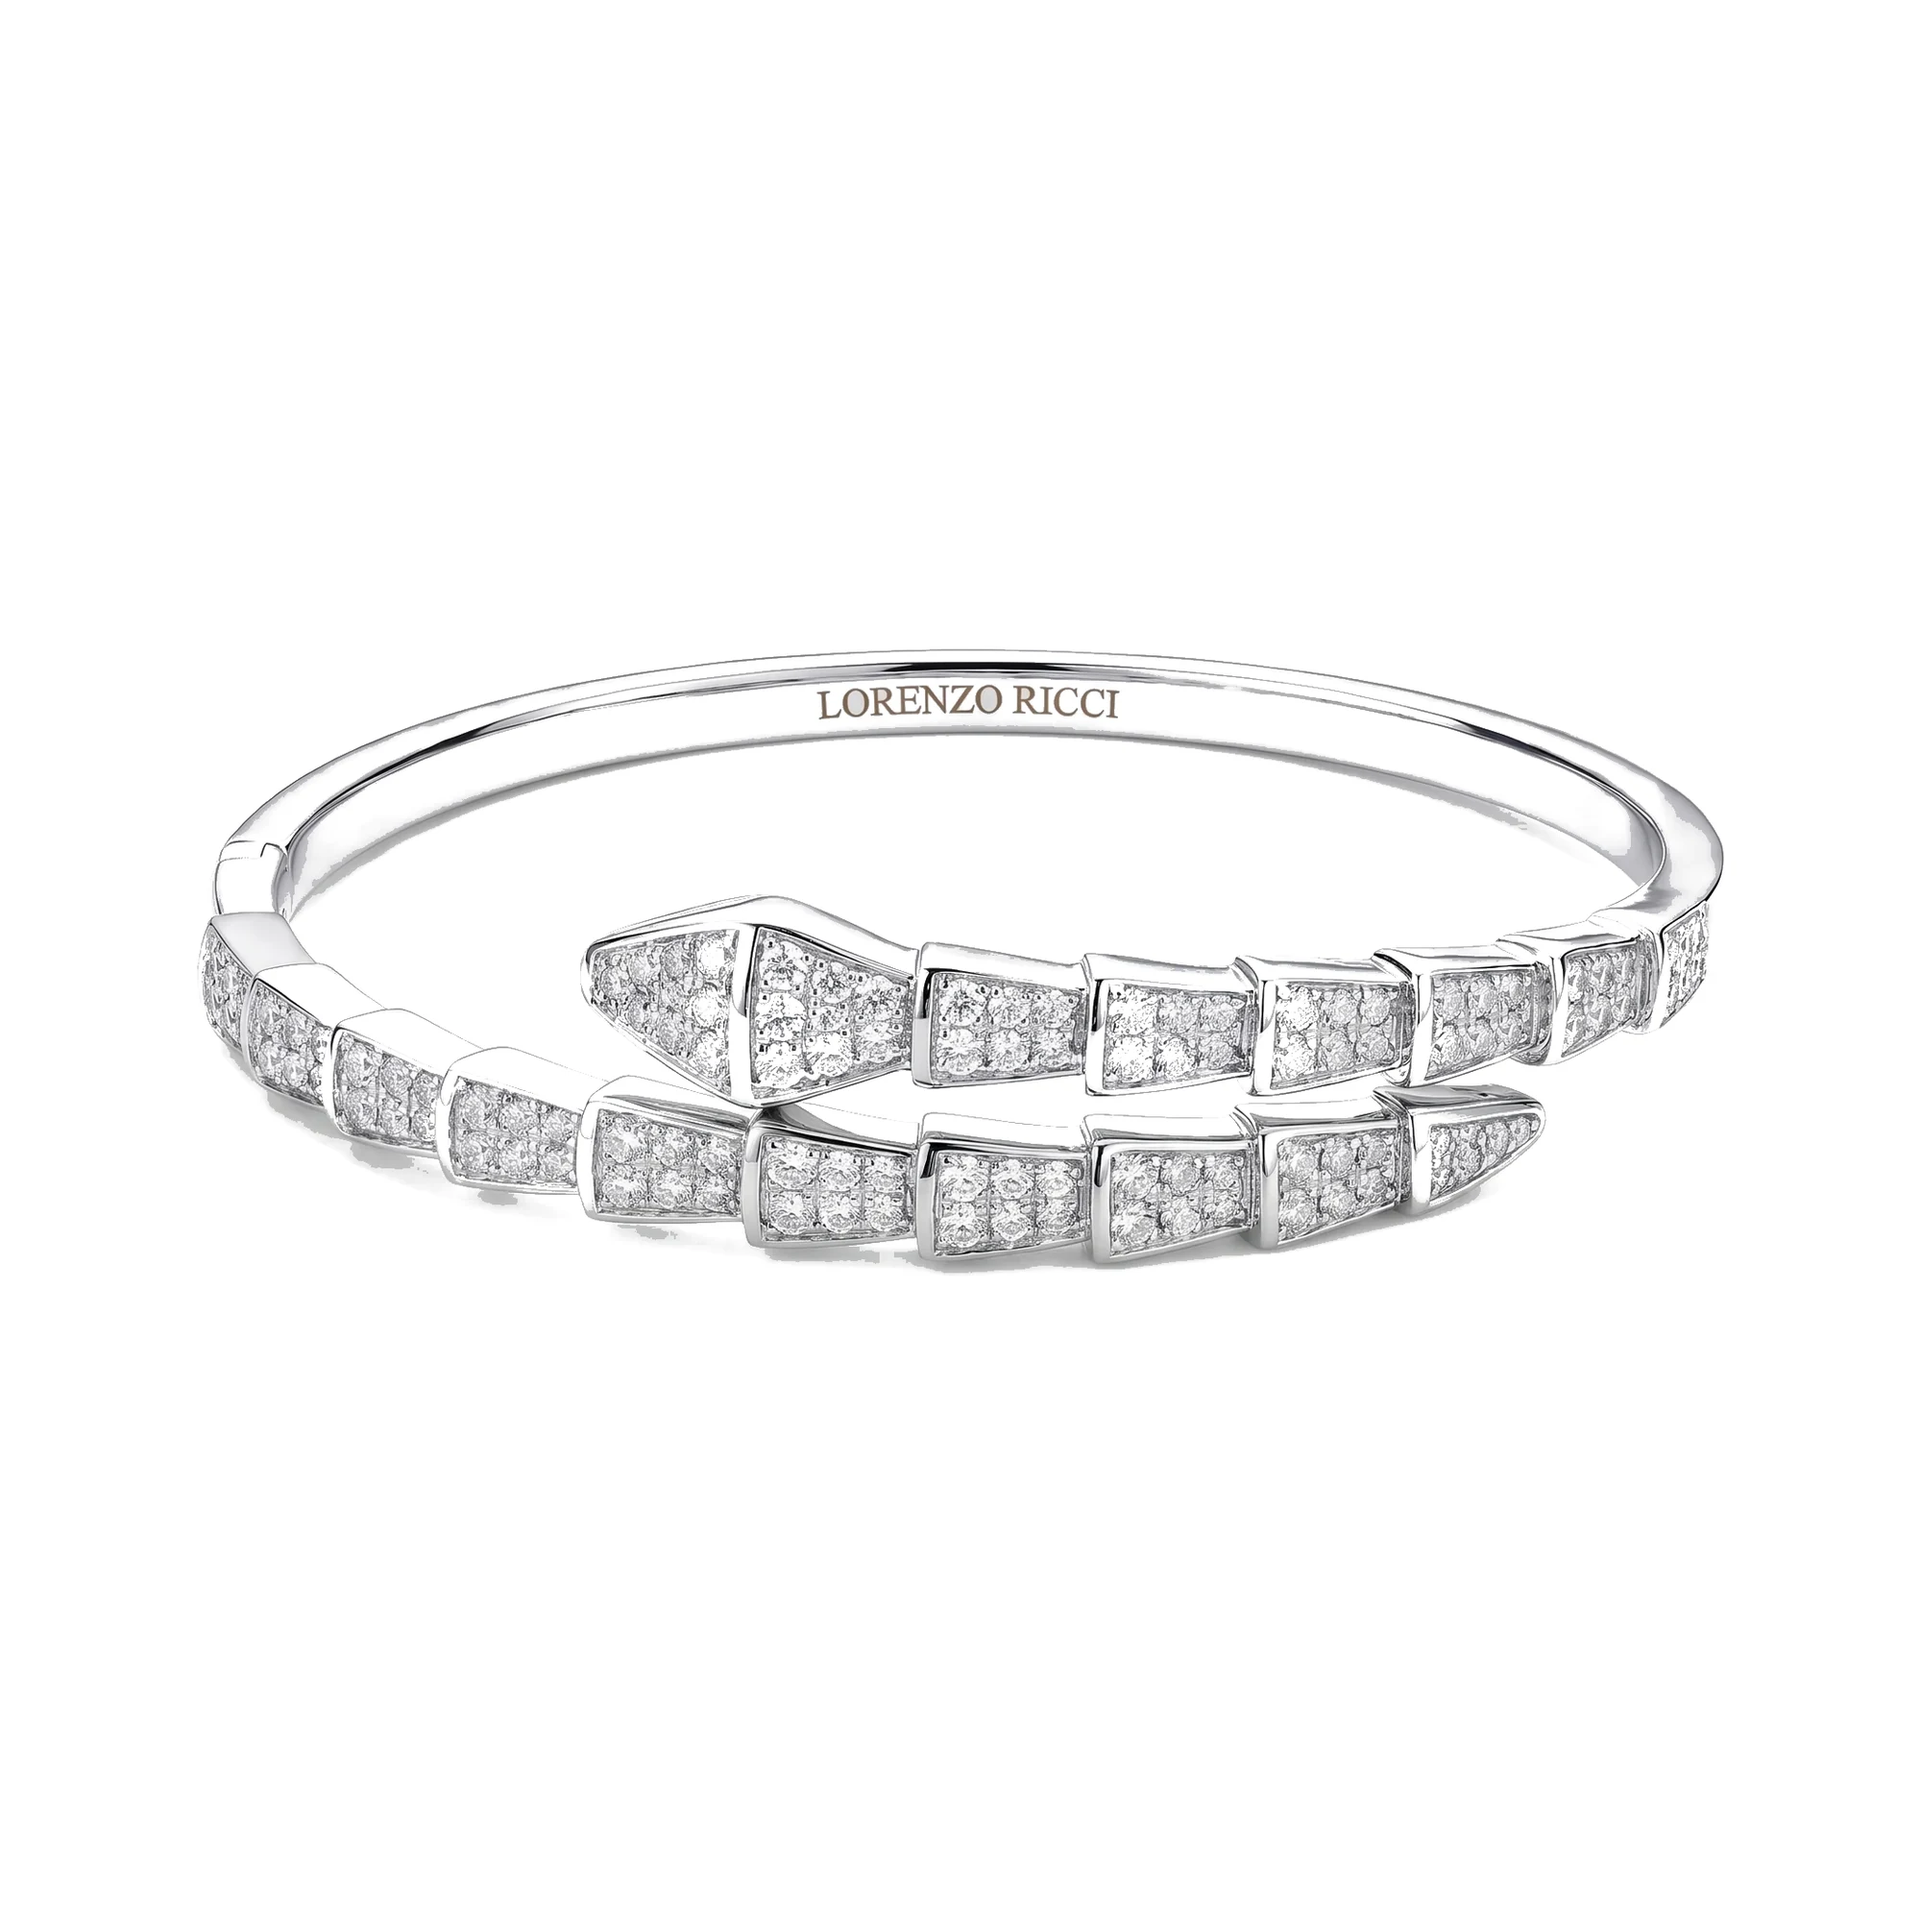
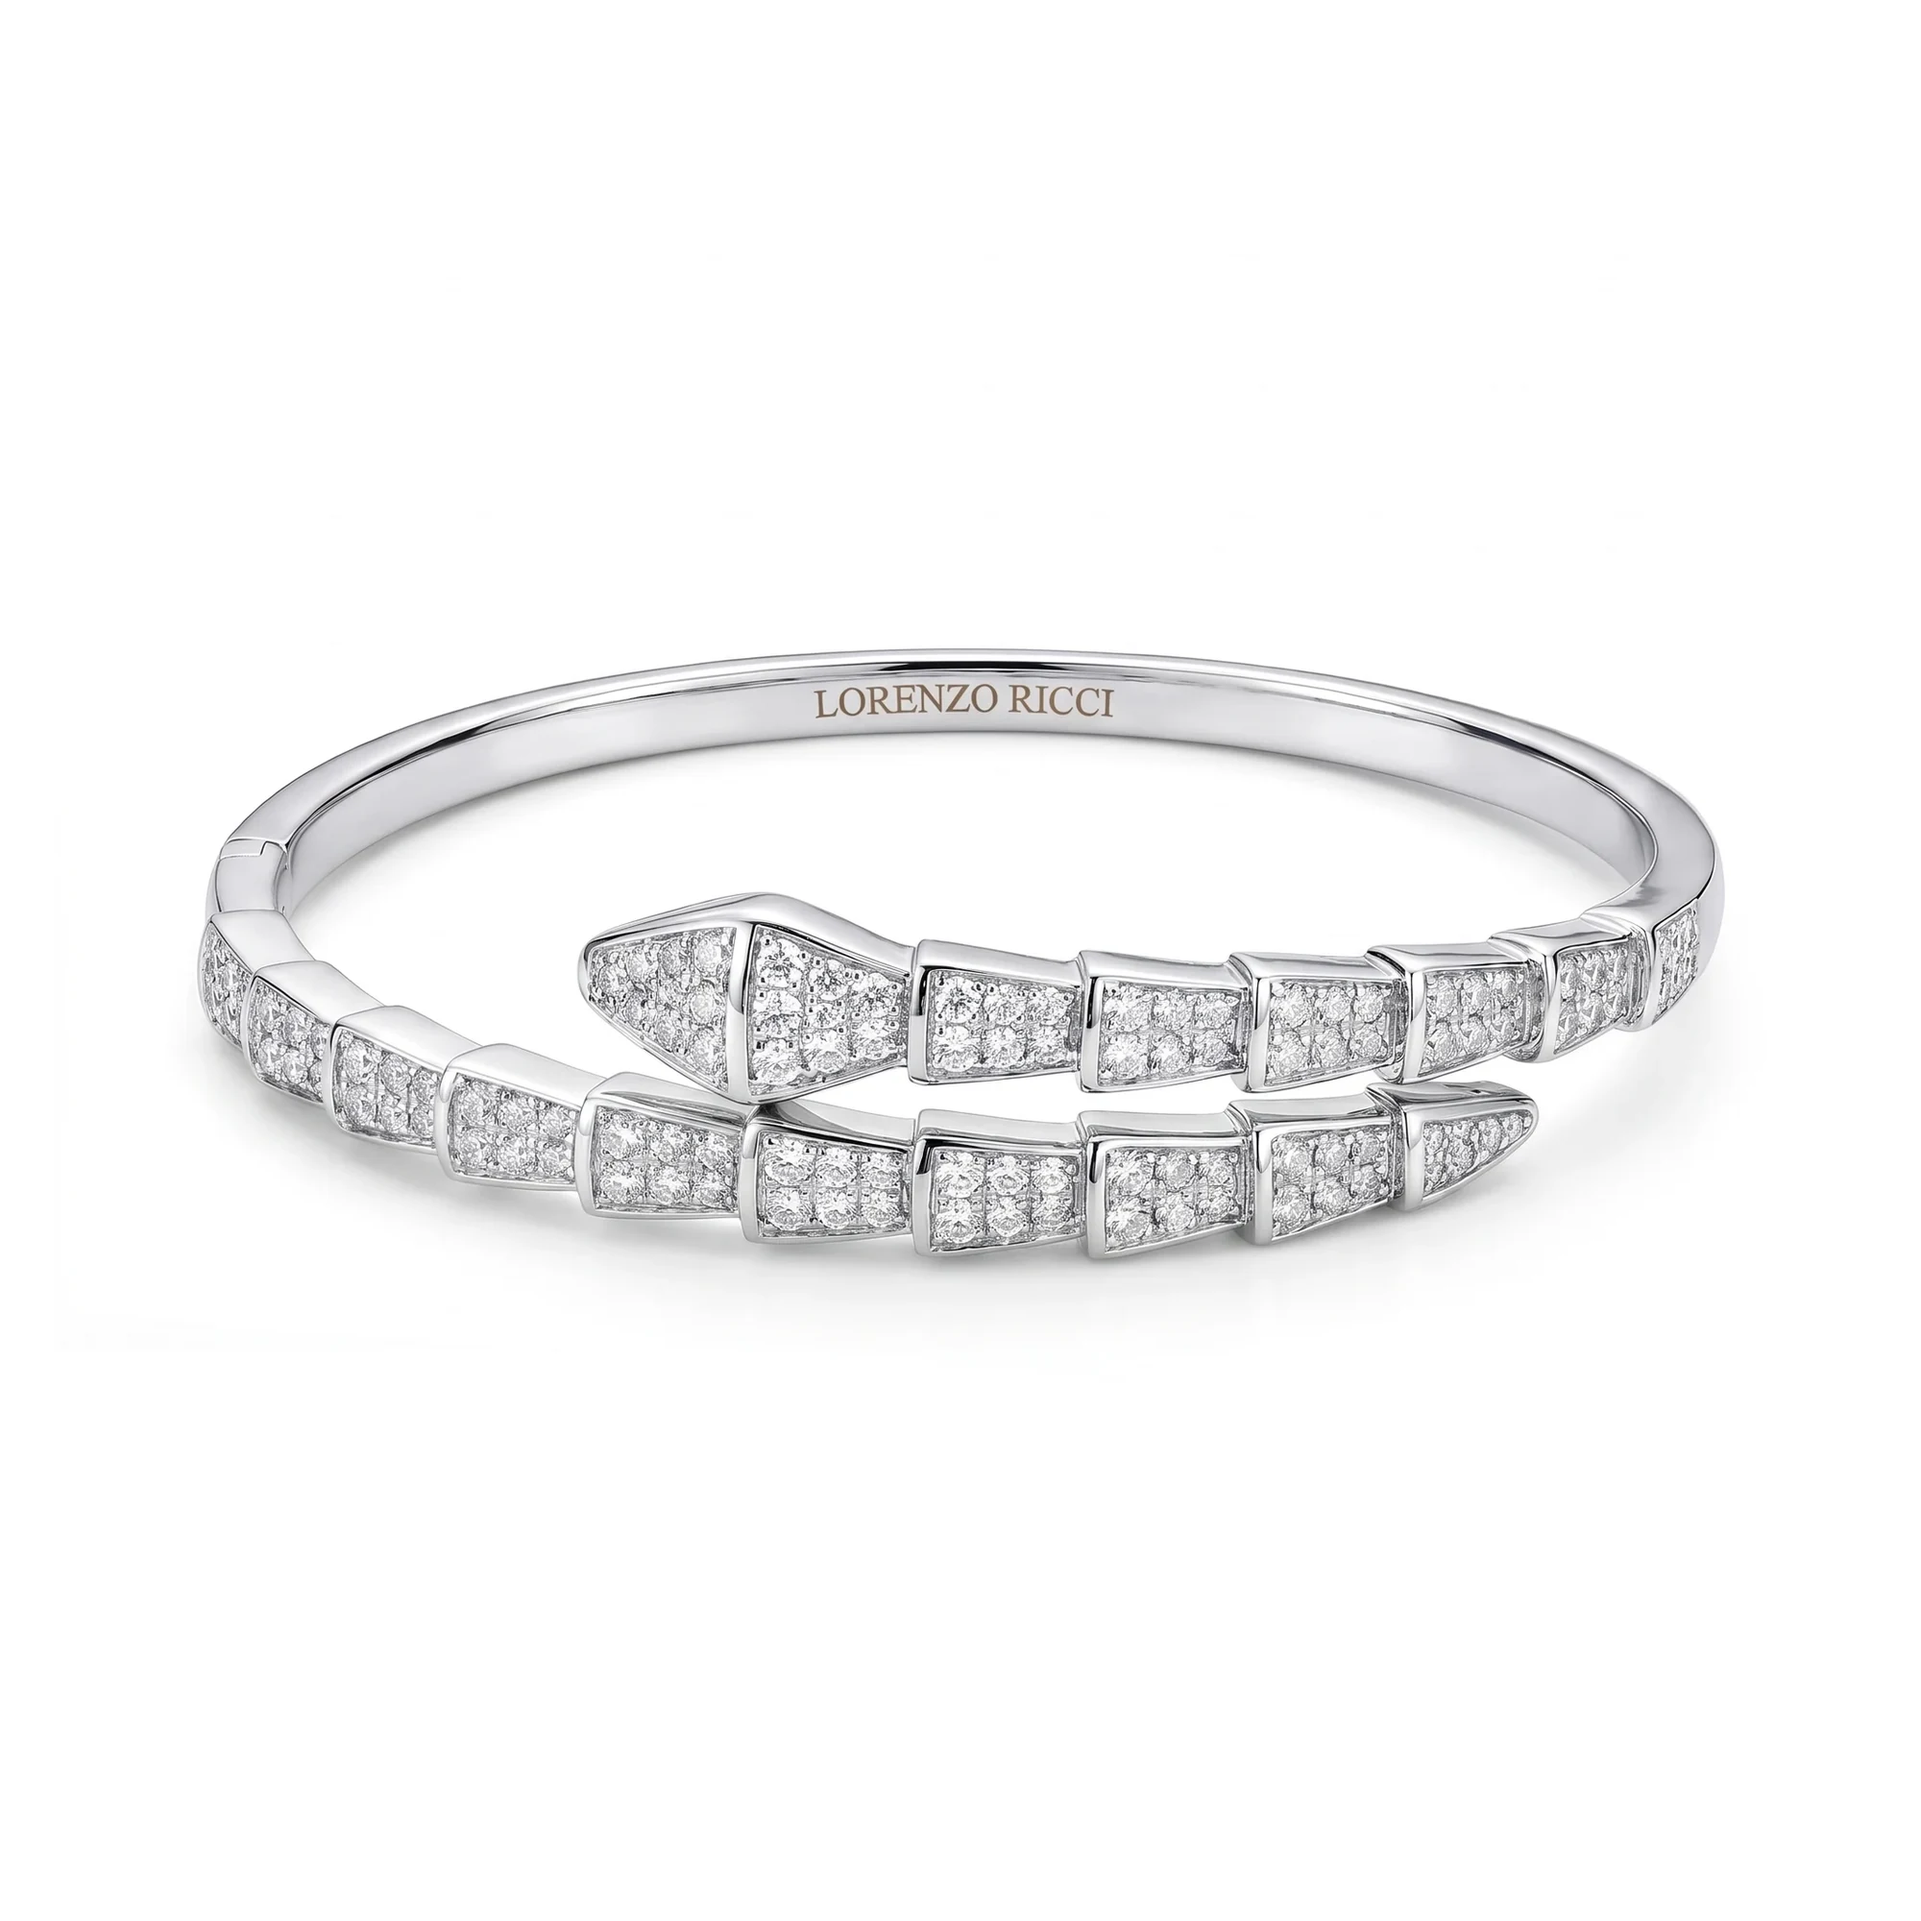
Silver bracelets: restore the 6 Linea / Solaris / Spira white-background photos washed out by the whitening; photo script never singles out product pixels (edge flood with a product mask, styled photos left as is, whole-photo scaling)

Changed region(s): [[0.093, 0.341, 0.899, 0.682]]

diff --git a/public/Products/README.md b/public/Products/README.md
@@ -22,10 +22,12 @@ Processing, every time photos are added or renumbered:
    `{model}-{necklace|bracelet}-{gold|silver}-{n}.webp` with the owner's n; same file in the folder and here.
 2. List the piece in `lib/new-collection.ts` `COLLECTION_PHOTOS`, one letter per photo in that order
    (p white background, m on model, b open box, c closed box, d detail on white). A piece without photos stays hidden.
-3. Run `node scripts/collection-photos.mjs`: every bracelet white-background photo (p, d) gets a pure #FFFFFF background and the
-   same product size (80% of the width for bracelets, 80% of the height for necklaces, never cut), in place, here and in the
-   folder. On-model and box photos, and every necklace photo (the owner's originals, used exactly as given), are left alone. Before it changes a photo it keeps the untouched
-   original in `New Jewellery/_originals/`, so any photo can be redone. A new photo's own source file is only deleted after that. Done files are recorded in `scripts/collection-photos.json` and skipped on the
-   next run; `--force` redoes all, `--out <dir>` is a dry run. Every run also rewrites `lib/collection-photo-versions.json`
-   (a content hash per photo, sent as `?v=` in the photo URL), so run it after ANY photo change: photos are cached a day by
-   URL, and a replaced or renumbered file under the same name would otherwise keep showing the old picture.
+3. Run `node scripts/collection-photos.mjs` (bracelets only; necklaces keep the owner's originals exactly as given). It never
+   singles out a pixel of the product: a clean white backdrop is left as it is (an almost-white one gets one uniform lift of at most
+   2%), a near-white tint is whitened only by a low-tolerance flood from the photo's edges outside a mask round the product (its
+   highlights, edges and soft shadow are never changed), and a styled backdrop (a grey surface, window light, a floor that runs to
+   the edge) is left exactly as it is, size included. Clean photos are then scaled so the product fills 80% of the width - the whole
+   photo is scaled, so no crop edge cuts the shadow. On-model and box photos are never touched. Before changing a photo it keeps the
+   untouched original in `New Jewellery/_originals/`. Done files are recorded in `scripts/collection-photos.json` and skipped next
+   time; `--only a.webp,b.webp` redoes just those, `--out <dir>` is a dry run. Every run rewrites `lib/collection-photo-versions.json`
+   (a content hash per photo, sent as `?v=` in the URL), so run it after ANY photo change.
